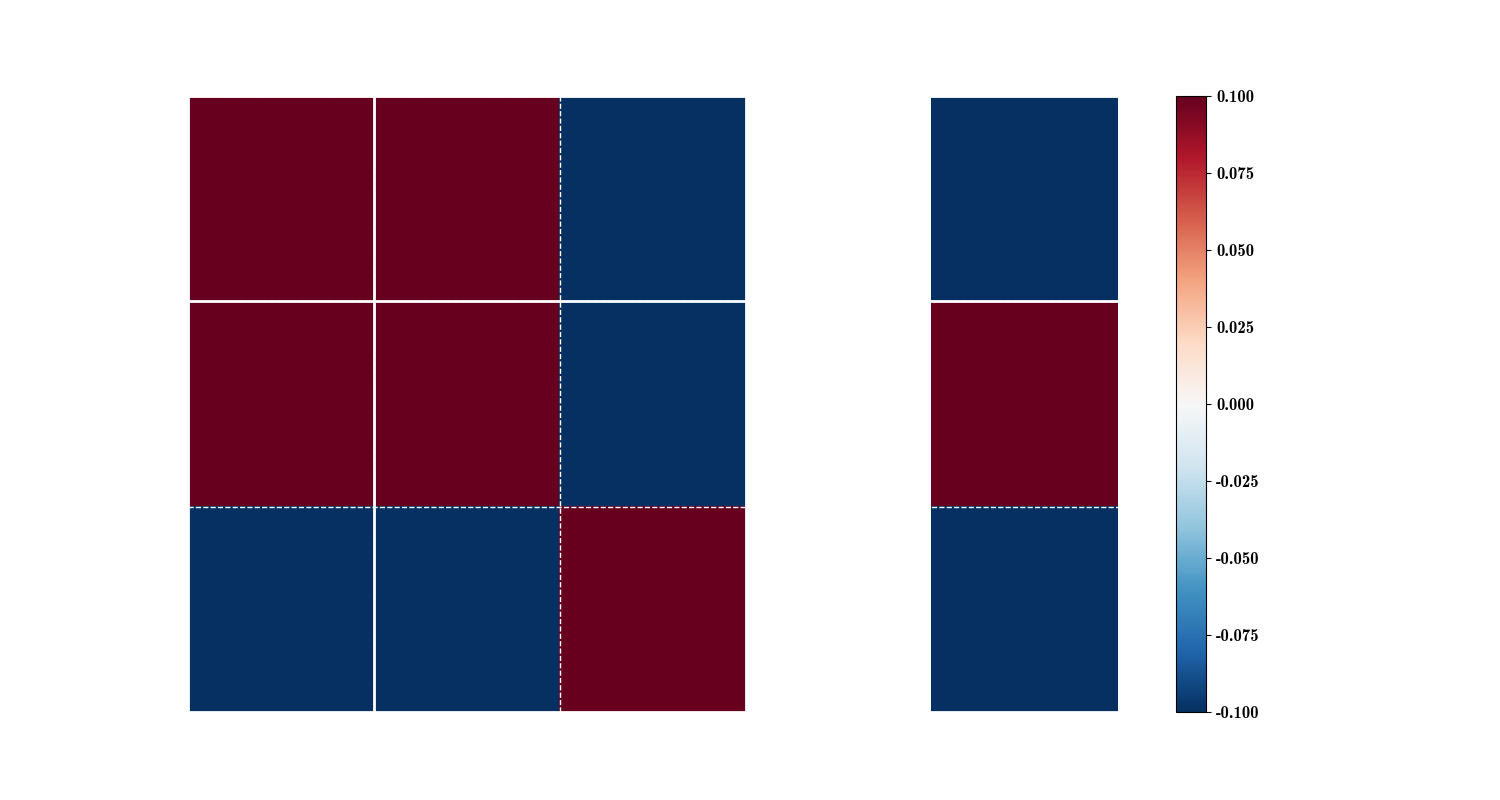
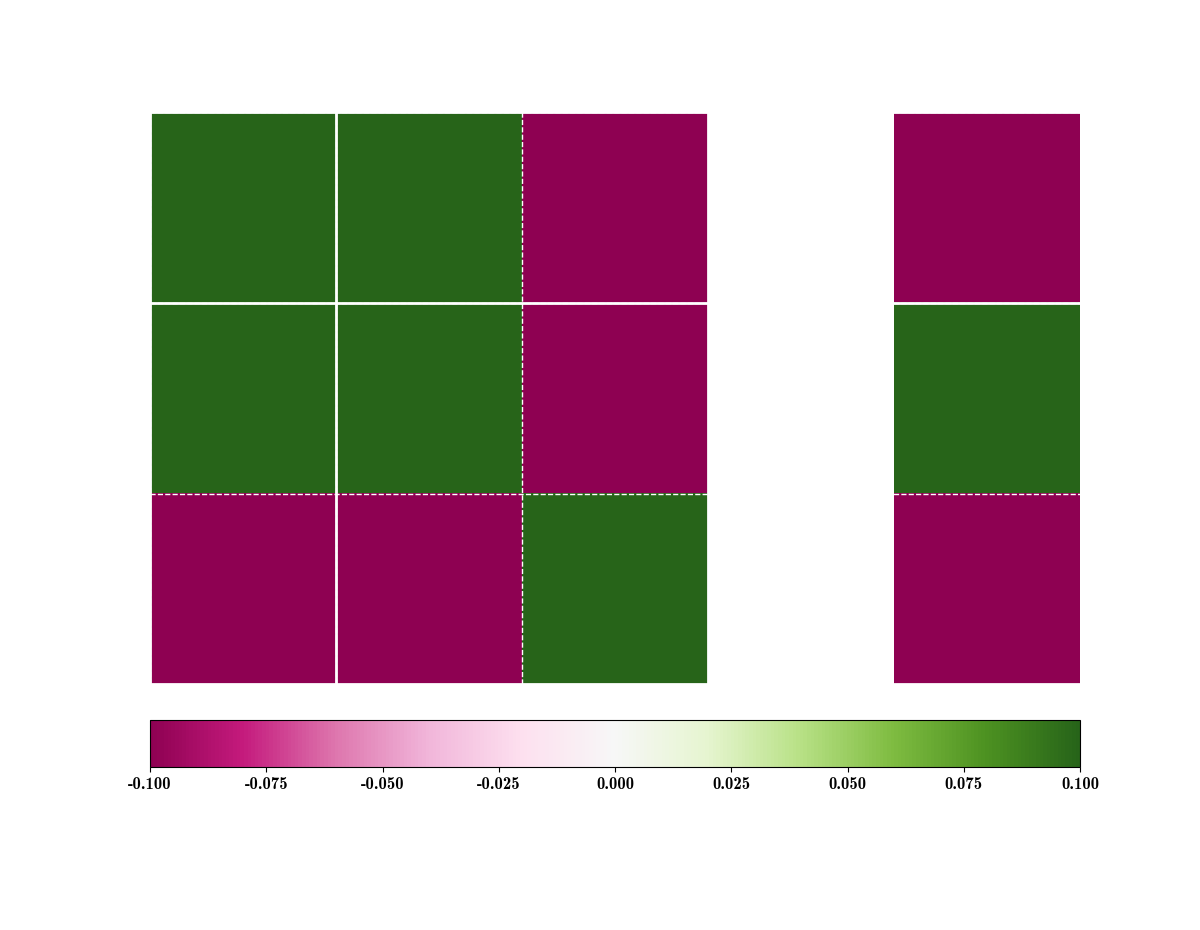
update drawer

diff --git a/src/pyDrawer/draw_equation.py b/src/pyDrawer/draw_equation.py
@@ -5,6 +5,9 @@ import numpy as np
 filename = '/home/csl/CppWorks/artwork/ceres-utils/src/output/equation_before.json'
 savename = '/home/csl/CppWorks/artwork/ceres-utils/src/img/equation_before.png'
 
+# ['PiYG', 'PRGn', 'BrBG', 'PuOr', 'RdGy', 'RdBu', 'RdYlBu', 'RdYlGn', 'Spectral', 'coolwarm', 'bwr', 'seismic']
+color_name = 'PiYG'
+
 # setting
 config = {
     # "text.usetex": True,
@@ -36,7 +39,7 @@ def read_equation(filename):
 
 if __name__ == '__main__':
     plt.rcParams.update(config)
-    plt.rcParams['figure.figsize'] = (15.0, 8.0)
+    plt.rcParams['figure.figsize'] = (12.0, 9.3)
     [h_matrix, b_vector, param_info] = read_equation(filename)
 
     # construct the equation
@@ -65,8 +68,8 @@ if __name__ == '__main__':
     ax.spines['top'].set_visible(False)
     ax.spines['right'].set_visible(False)
 
-    plt.pcolormesh(np.array(equation), cmap='RdBu_r', vmin=-val_max, vmax=val_max)
-    plt.colorbar()
+    plt.pcolormesh(np.array(equation), cmap=color_name, vmin=-val_max, vmax=val_max)
+    plt.colorbar(orientation='horizontal', pad=0.05)
     count = 0
     for idx in range(len(param_info) + 1):
         plt.axvline(count, color='w', linestyle='-', linewidth=2)
